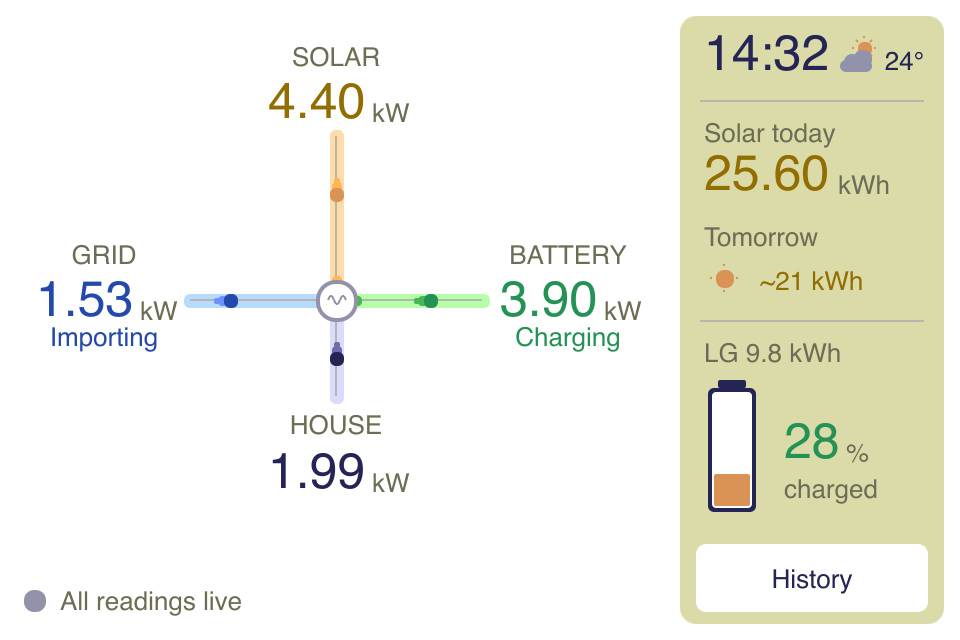
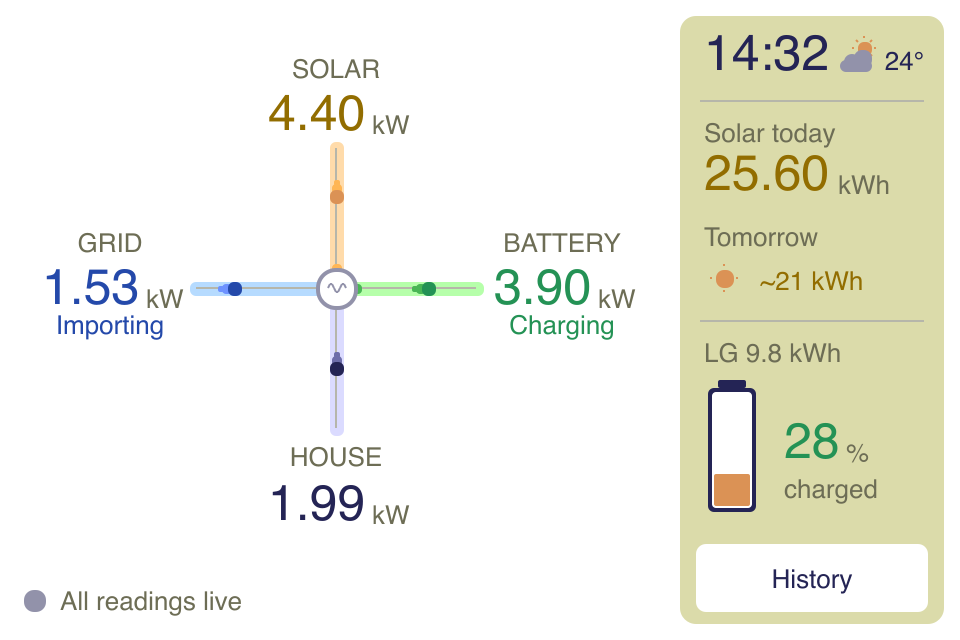
fix(display): equal pipe lengths and centred cross on the 4.0" flow
All four pipes are 60 px; grid and battery blocks sit beside their pipe
ends and solar/house are placed to match, with the hub centred in the
free area left of the rail. 320x240 output unchanged.

diff --git a/src/ui/flow_layout.cpp b/src/ui/flow_layout.cpp
@@ -316,9 +316,18 @@ int textHalf[2] = {36, 36};  // Half widths of the grid and battery blocks.
 // Cross geometry: hub centre and radius, grid and battery block centres, the
 // solar reading's top and the HOUSE label's top. On 480 x 320 the cross takes
 // the left 336 px; an information rail replaces the 320 x 240 top row.
-struct Cross { int hubX, hubY, hubR, gridX, batteryX, solarY, houseY; };
-constexpr Cross cross320{140, 115, 9, 38, 244, 50, 157};
-constexpr Cross cross480{168, 150, 10, 52, 284, 40, 204};
+// pipe > 0 gives all four pipes that centre-line length: the grid and battery
+// blocks then sit beside their pipe ends (centres follow the text width) and
+// solar/house are placed to match, with the whole cross centred on the hub.
+struct Cross { int hubX, hubY, hubR, gridX, batteryX, solarY, houseY, pipe; };
+constexpr Cross cross320{140, 115, 9, 38, 244, 50, 157, 0};
+// Free area x 0-336, y 0-288. Solar: hubY - hubR - pipe - stop - 19; house:
+// hubY + hubR + pipe + stop - 3. Ink spans y 29-260 and x >= 7 for the widest
+// block (a 10.00 kW reading is 82 px), clear of the rail and status line.
+constexpr Cross cross480{168, 144, 10, 0, 0, 46, 220, 60};
+static_assert(cross480.solarY == cross480.hubY - cross480.hubR - cross480.pipe - 9 - 19 &&
+              cross480.houseY == cross480.hubY + cross480.hubR + cross480.pipe + 9 - 3,
+              "4.0-inch solar and house pipes must match the side pipes");
 
 void railRule(Canvas& c, int y) { c.rect(350, y, 112, 1, track); }
 
@@ -414,12 +423,22 @@ Box drawCentre(Canvas& c, const FlowView& v) {
     // 3 px below y. On 320 x 240 the solar block starts below the top row so
     // "kWh today" can't touch it.
     const Cross& g = wide ? cross480 : cross320;
-    const int hubX = g.hubX, hubY = g.hubY, hubR = g.hubR, gridX = g.gridX, batteryX = g.batteryX, solarY = g.solarY;
+    const int hubX = g.hubX, hubY = g.hubY, hubR = g.hubR, solarY = g.solarY;
     const int houseY = g.houseY;
     constexpr int pipeGap = 6;
     const float grid = r[energy::Grid].value, battery = r[energy::Battery].value;
     const char* gridState = !u[energy::Grid] ? "No data" : grid > 30 ? "Importing" : grid < -30 ? "Exporting" : "Idle";
     const char* batteryState = !u[energy::Battery] ? "No data" : battery < -30 ? "Charging" : battery > 30 ? "Supplying" : "Idle";
+    // Motion frames reuse the text widths of the last full frame, so the box
+    // they clear always matches the text on screen.
+    if (!v.motionOnly) {
+        textHalf[0] = std::max({c.textWidth(2, "GRID"), readingWidth(c, r[energy::Grid]), c.textWidth(2, gridState)}) / 2;
+        textHalf[1] = std::max({c.textWidth(2, "BATTERY"), readingWidth(c, r[energy::Battery]), c.textWidth(2, batteryState)}) / 2;
+    }
+    const int gridHalf = textHalf[0], batteryHalf = textHalf[1];
+    const int sideOffset = hubR + g.pipe + pipeGap + pipeCap;
+    const int gridX = g.pipe ? hubX - sideOffset - gridHalf : g.gridX;
+    const int batteryX = g.pipe ? hubX + sideOffset + batteryHalf : g.batteryX;
     if (!v.motionOnly) {
     c.text(hubX, solarY - 20, 2, label, Center, "SOLAR");
     reading(c, hubX, solarY, Center, r[energy::Solar], u[energy::Solar], solarInk);
@@ -442,13 +461,6 @@ Box drawCentre(Canvas& c, const FlowView& v) {
     }
     }
 
-    // Motion frames reuse the text widths of the last full frame, so the box
-    // they clear always matches the text on screen.
-    if (!v.motionOnly) {
-        textHalf[0] = std::max({c.textWidth(2, "GRID"), readingWidth(c, r[energy::Grid]), c.textWidth(2, gridState)}) / 2;
-        textHalf[1] = std::max({c.textWidth(2, "BATTERY"), readingWidth(c, r[energy::Battery]), c.textWidth(2, batteryState)}) / 2;
-    }
-    const int gridHalf = textHalf[0], batteryHalf = textHalf[1];
     const float dt = cometMs && v.ms ? std::min<uint32_t>(v.ms - cometMs, 100) / 1000.0f : 0.0f;
     cometMs = v.ms;
     // The pipes and hub sit inside this box, clear of every text block.
